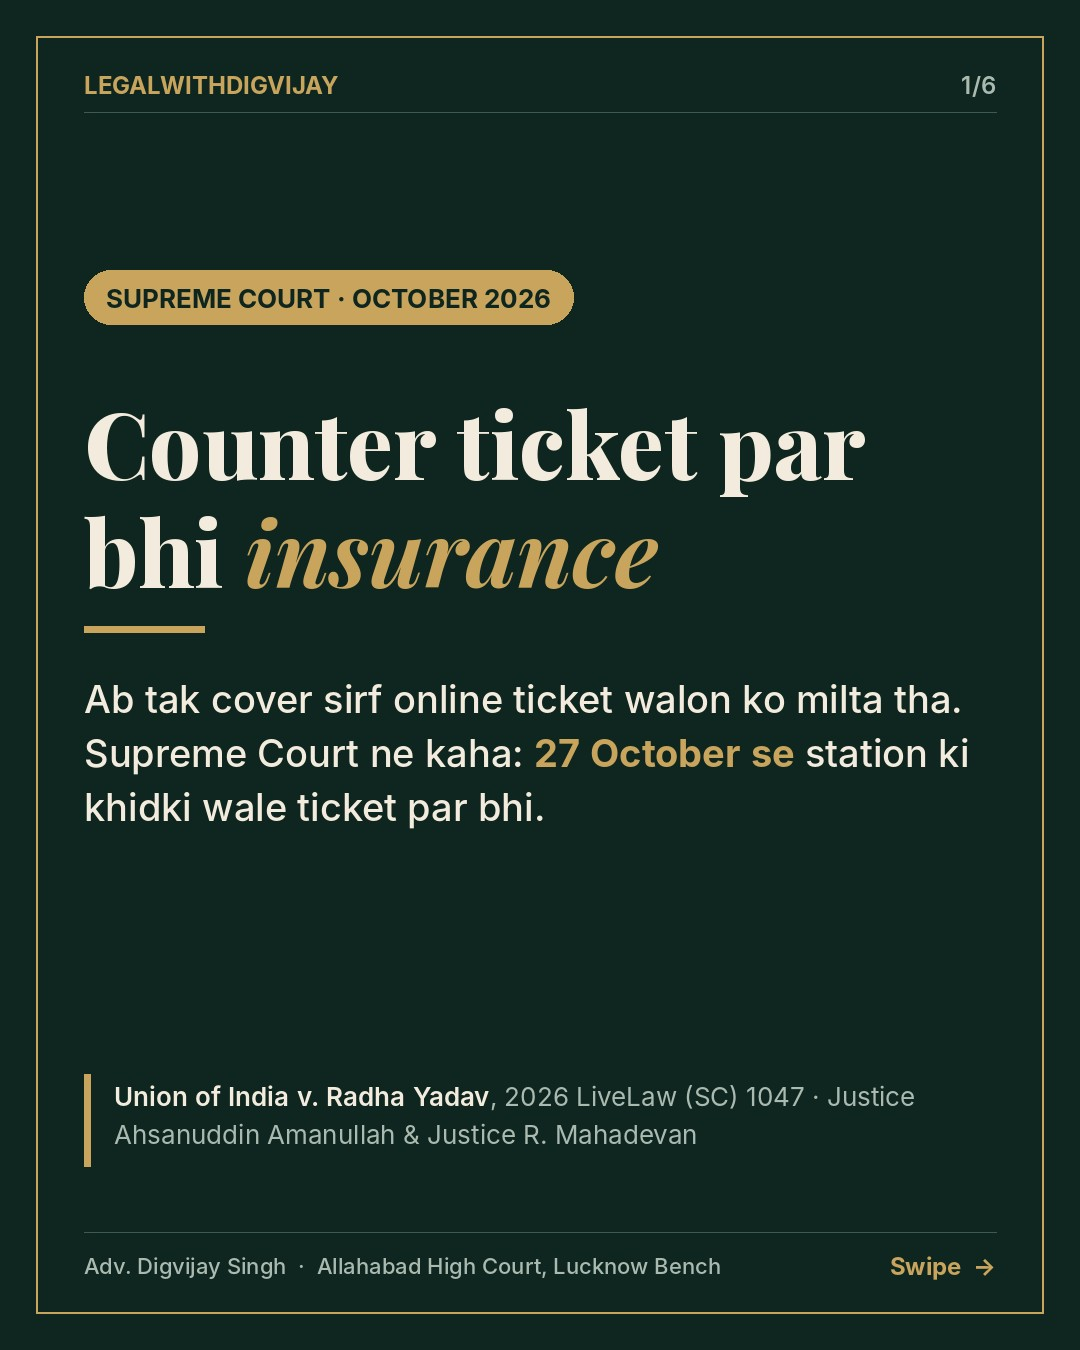
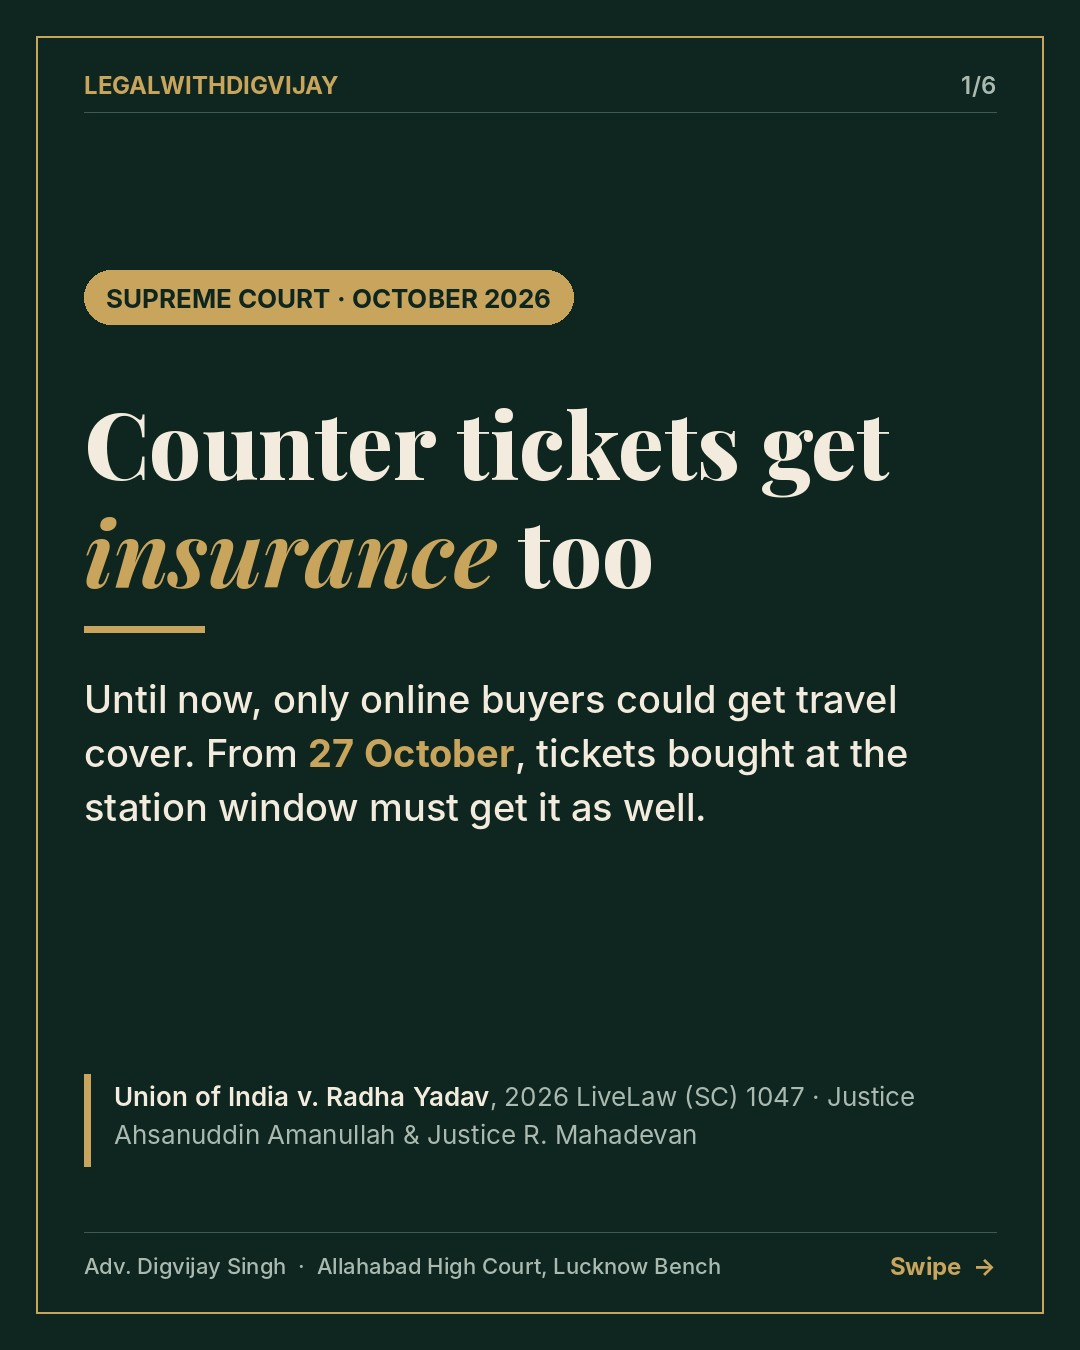
Switch 14 Oct post and daily task to English
Claude-Session: https://claude.ai/code/session_012mzbq4VKba81SWfPjKXTtH

Changed region(s): [[0.0611, 0.4978, 0.8861, 0.6222], [0.0611, 0.3733, 0.6111, 0.4356], [0.6417, 0.3111, 0.825, 0.3733]]

diff --git a/tools/DAILY_TASK.md b/tools/DAILY_TASK.md
@@ -1,6 +1,6 @@
 # Legalwithdigvijay — daily post task
 
-You are preparing today's Instagram + Facebook carousel for **Legalwithdigvijay** (Adv. Digvijay Singh, Allahabad High Court, Lucknow Bench). Audience: general Indian public. Language: **Hinglish** (Hindi in Roman script + simple English legal terms). The goal is accurate legal awareness, not advertising.
+You are preparing today's Instagram + Facebook carousel for **Legalwithdigvijay** (Adv. Digvijay Singh, Allahabad High Court, Lucknow Bench). Audience: general Indian public. Language: **English** — plain, simple English for a general audience (no Hinglish; Digvijay switched from Hinglish to English on 14 Oct 2026). The goal is accurate legal awareness, not advertising.
 
 ## Mode
 **APPROVAL MODE: ON.** Never publish without Digvijay's explicit "approve" reply in this session. (He will tell you when to switch to automatic.)
@@ -14,7 +14,7 @@ You are preparing today's Instagram + Facebook carousel for **Legalwithdigvijay*
 Rotate by weekday (IST):
 - Mon, Wed, Fri, Sun — a **Supreme Court or High Court judgment** from the last 3 days that ordinary people should know about (rights, police, bail, property, family, consumer, cheque bounce, cyber, women's and workers' rights).
 - Tue, Thu — **legal news / law change** (new rule, notification, BNS/BNSS/BSA change, important government legal scheme).
-- Sat — **"Kanoon ka fact" / myth-buster** on a common legal misconception, tied to a current case where possible.
+- Sat — **"Law fact" / myth-buster** on a common legal misconception, tied to a current case where possible.
 
 Prefer stories with clear public value. Avoid: political-party controversies, ongoing protest cases, celebrity gossip, anything that names or identifies a victim of a sexual offence or a child (BNS s.72 / POCSO s.23), and pending matters where the court has not decided anything yet.
 
@@ -25,13 +25,13 @@ Prefer stories with clear public value. Avoid: political-party controversies, on
 - Write everything in your own words. Never copy sentences from the source.
 
 ## 4. Write `post.json`
-Format exactly like the previous days' files: `date`, `topic`, `sources` (URLs), `slides`, `caption`.
-- 6 slides: `cover` (kicker, title, subtitle, cite) → 3–4 `content` slides (label, title, 2–3 bullets, optional `note` for a "Kanoon ka fact") → `cta`.
+All slide text and the caption in English. Format exactly like the previous days' files: `date`, `topic`, `sources` (URLs), `slides`, `caption`.
+- 6 slides: `cover` (kicker, title, subtitle, cite) → 3–4 `content` slides (label, title, 2–3 bullets, optional `note` for a "Law fact") → `cta`.
 - Use `**word**` for brass emphasis; keep each bullet under ~30 words; titles under ~8 words.
 - If a ruling could be misread (e.g. "drugs are now legal"), add a "Dhyan rahe" slide that corrects it.
-- Last content slide or caption must include: "Yeh post sirf jaankari ke liye hai, legal advice nahi."
+- Last content slide or caption must include: "This post is for information only, not legal advice."
 - **Bar Council Rule 36:** no phone numbers, no "contact me for your case", no fees, no claims of success. Educational CTA only (follow / save / share).
-- Caption: hook line + emoji, 3 short paragraphs, the citation line, the disclaimer, "Save karein 🔖 | Share karein 📤 | Follow @legalwithdigvijay", then 12–15 relevant hashtags (always include #LegalWithDigvijay #LegalAwareness #KanoonKiBaat). Max 2,200 characters and 30 hashtags.
+- Caption: hook line + emoji, 3 short paragraphs, the citation line, the disclaimer, "Save 🔖 | Share 📤 | Follow @legalwithdigvijay", then 12–15 relevant hashtags (always include #LegalWithDigvijay #LegalAwareness #KanoonKiBaat). Max 2,200 characters and 30 hashtags.
 
 ## 5. Render and check
 - `python3 tools/render.py posts/DATE/post.json posts/DATE` → `01.jpg` … `06.jpg`.
